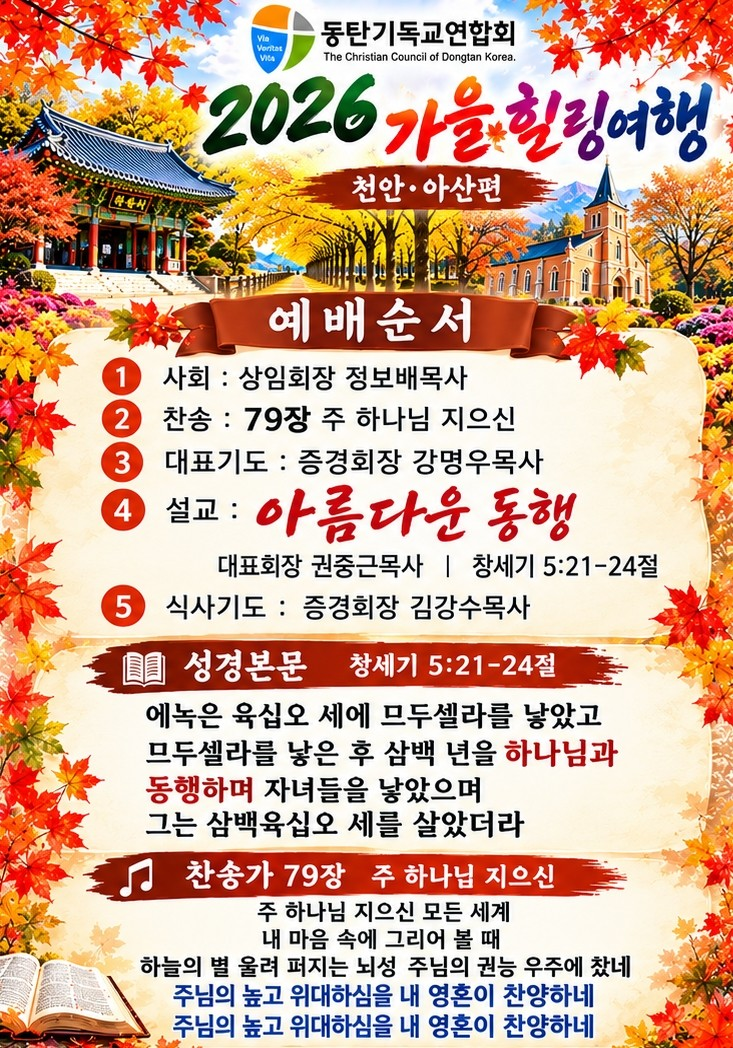
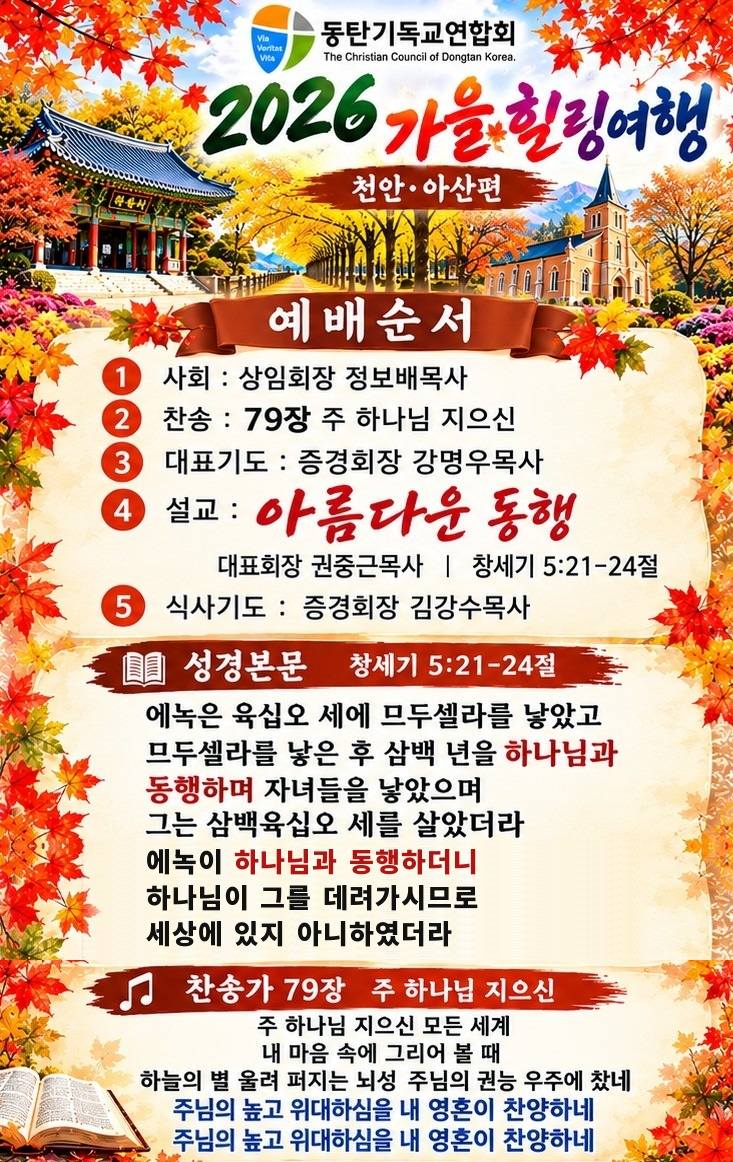
예배순서 성경본문에 창세기 5:24 추가
Claude-Session: https://claude.ai/code/session_01NRnTcizozer9ki9GaELfqN

diff --git a/index.html b/index.html
@@ -313,7 +313,7 @@ footer{padding:20px 16px calc(36px + var(--safe));text-align:center;color:var(--
 </div></section>
 
 
-  <section id="worship" class="poster"><h2>예배순서</h2><a href="worship.jpg"><img src="worship.jpg" alt="예배순서"></a></section>
+  <section id="worship" class="poster"><h2>예배순서</h2><a href="worship.jpg?v=2"><img src="worship.jpg?v=2" alt="예배순서"></a></section>
 
   <section id="photos"><h2>여행 사진</h2>
     <p class="hint">사진을 누르면 크게 볼 수 있어요.</p>
